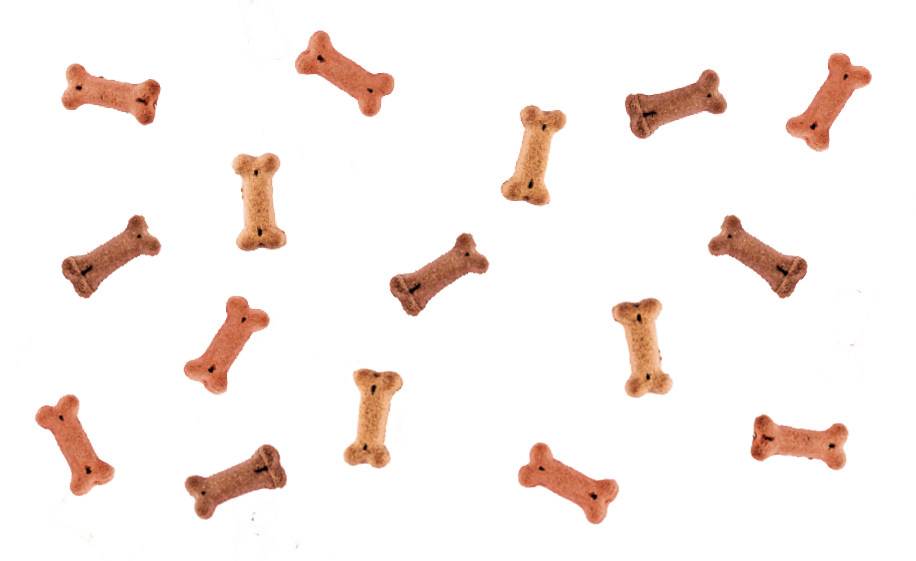
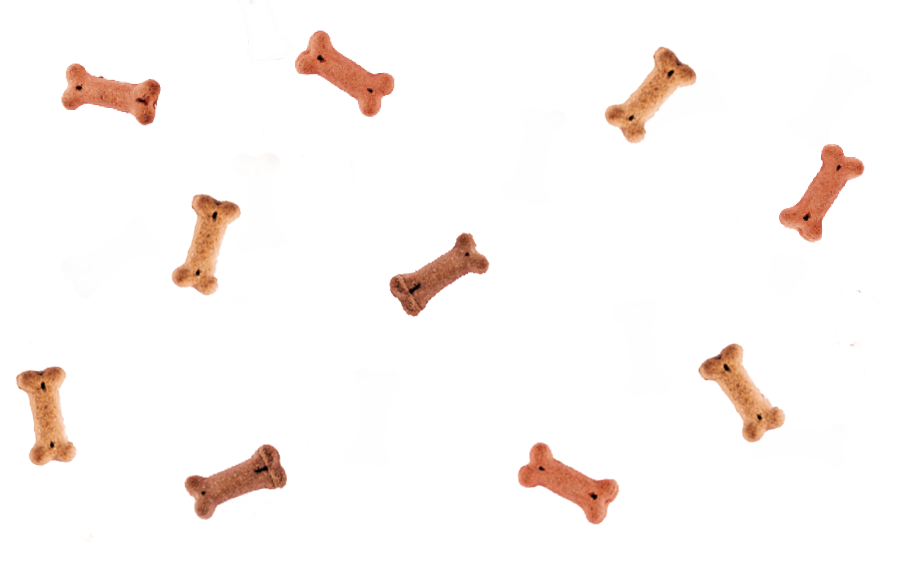
updates background at Home

diff --git a/src/Controllers/Home.js b/src/Controllers/Home.js
@@ -10,7 +10,7 @@ const Home = () => {
 
     const moveBackground = (e) => {
         e.stopPropagation();
-        const offsetX = (e.clientX / window.innerWidth * 50) - 25;
+        const offsetX = (e.clientX / window.innerWidth * 90) - 45;
         const offsetY = (e.clientY / window.innerHeight * 30) - 15;
         setOffset({ x: offsetX, y: offsetY });
     };
@@ -22,7 +22,7 @@ const Home = () => {
                 <a href="#minishop-section">Minishop</a>
                 <a href="#total-section">Total</a>
             </div>
-            <section className="container main_section" id="main-section">
+            <section className="container" id="main-section">
                 <article className="main">
                     <div className="parallax background-animals"
                         onMouseMove={moveBackground}></div>

diff --git a/src/css/Home.css b/src/css/Home.css
@@ -52,6 +52,8 @@
     background-size: 80%;
 }
 
+
+
 /* MINISHOP */
 
 .minishop {
